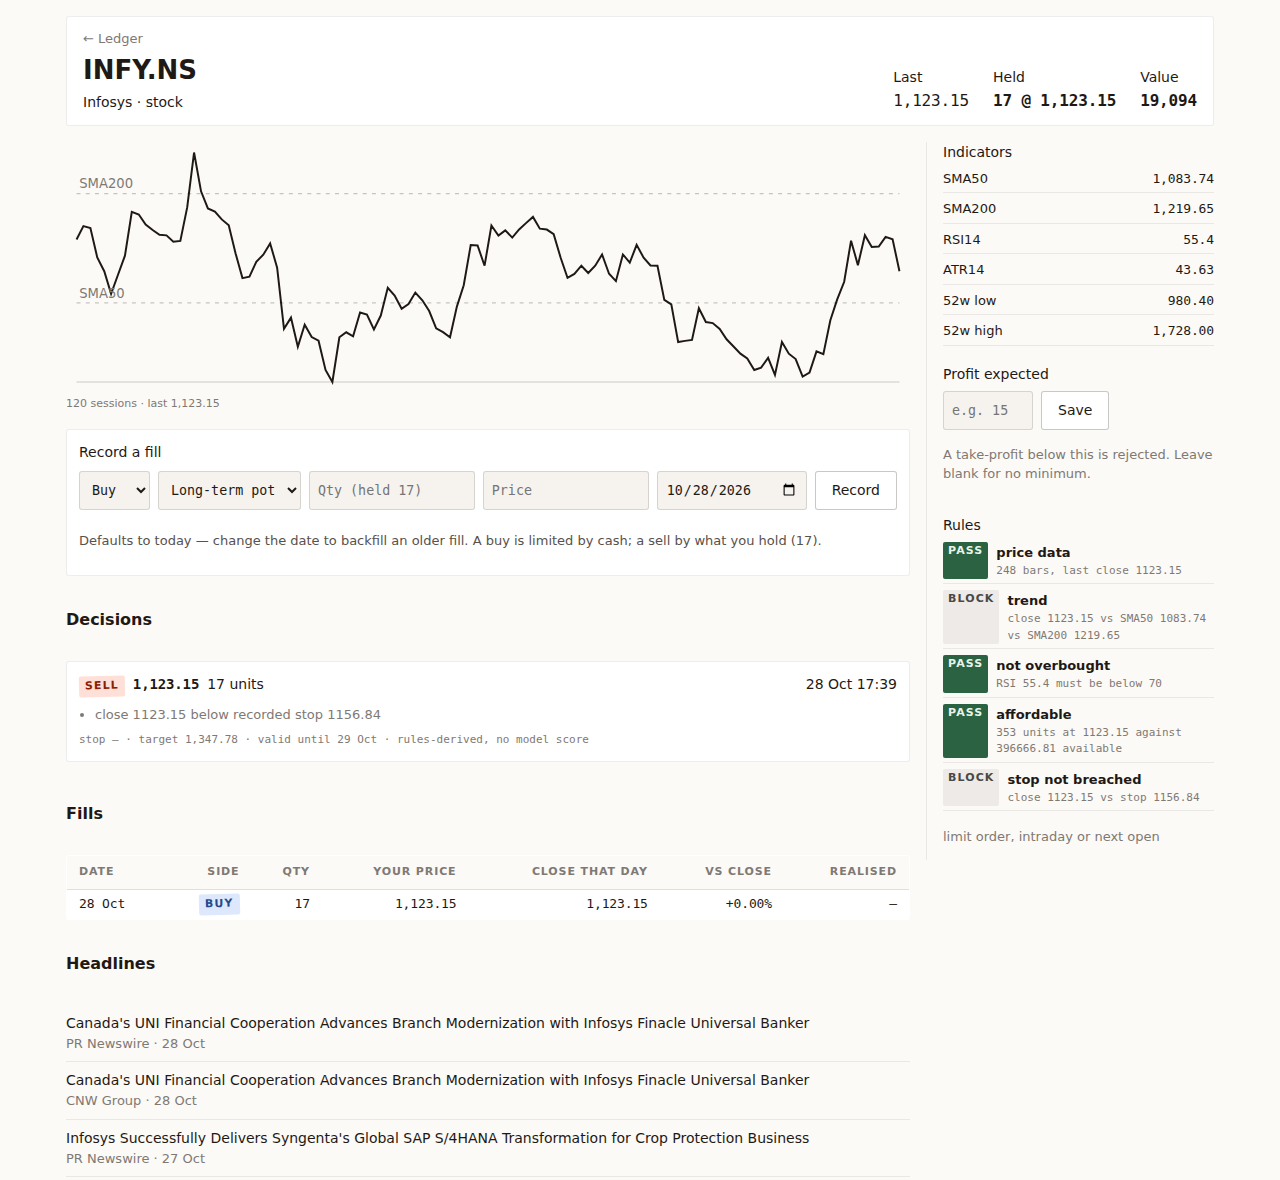
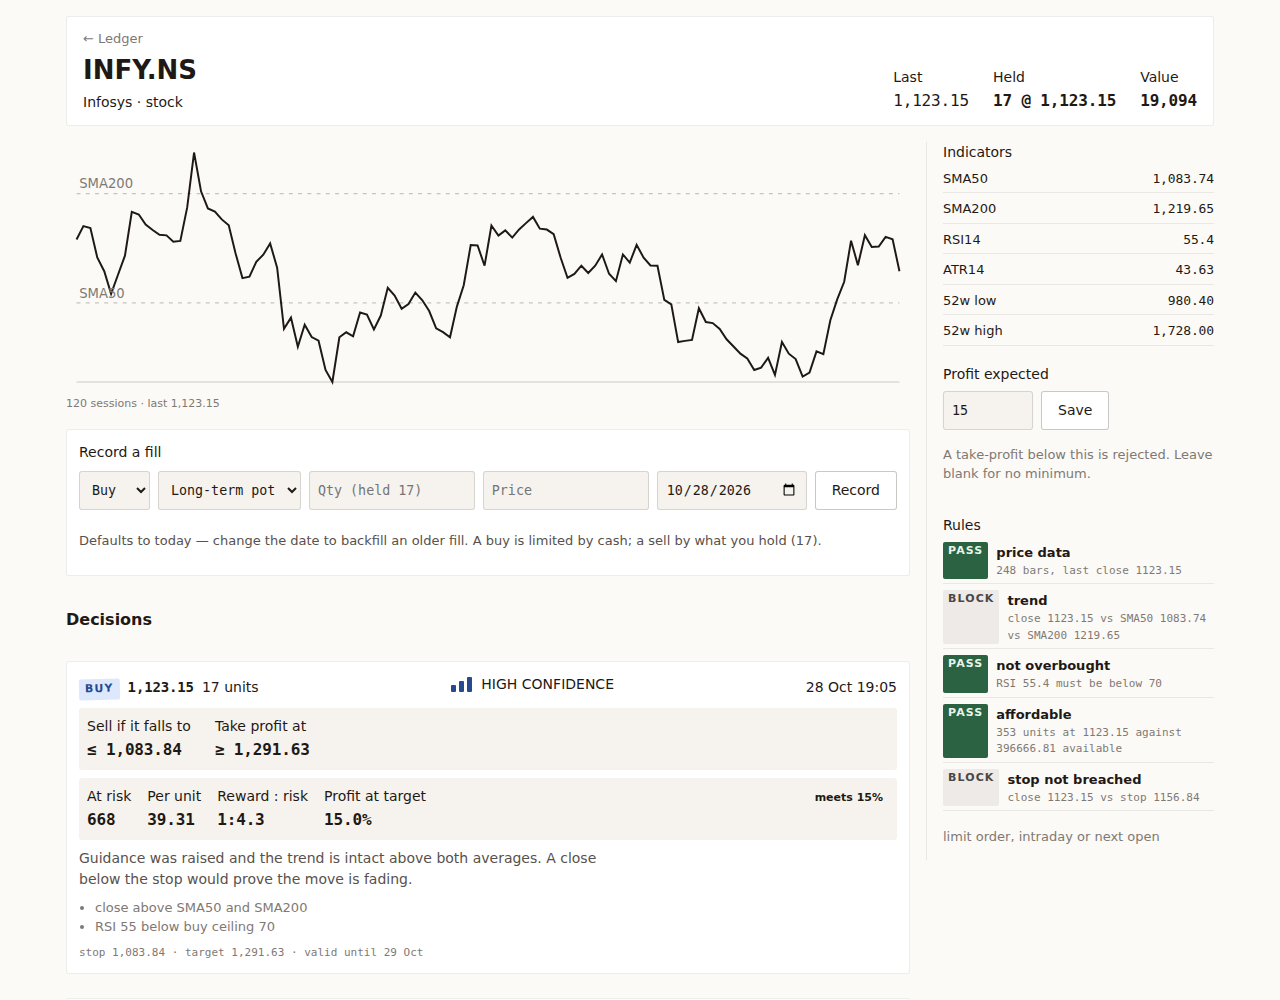
docs: refresh the screenshots for providers, exit plans and ntfy

diff --git a/README.md b/README.md
@@ -52,8 +52,10 @@ AMFI (India) ───┤ mutual fund NAV                                       
 ![Ledger](docs/screenshots/ledger.png)
 
 **Instrument** — price history with both moving averages, a fill recorder, the decision stream,
-the full fills history, headlines, and the rule checklist that explains why a signal fired or
-did not.
+the full fills history, headlines, and the rule checklist. Each buy carries its whole exit plan
+(`sell if it falls to` / `take profit at`), the money at risk and reward:risk, and how confident
+the model said it was. The rules panel on the right is what the *mechanical* layer sees; the
+decision above it is the model's, and the validator — not either of them — has the final say.
 
 ![Instrument](docs/screenshots/instrument.png)
 
@@ -61,8 +63,9 @@ did not.
 
 ![Trading](docs/screenshots/trading.png)
 
-**Settings** — budget, currency, the second pot, and the DeepSeek key (write-only; it is never
-returned by the API).
+**Settings** — budget, currency, the second pot, the model provider (DeepSeek, OpenAI, Gemini or
+any OpenAI-compatible endpoint) with its key, and the ntfy push channel with a test button. Keys
+are write-only: the API reports only whether one is configured.
 
 ![Settings](docs/screenshots/settings.png)
 
